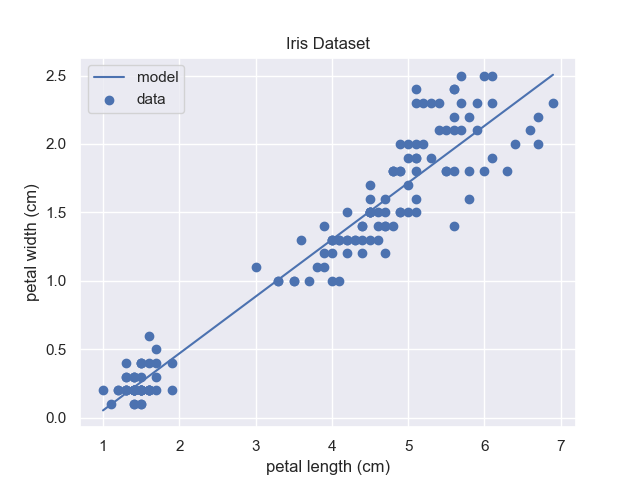
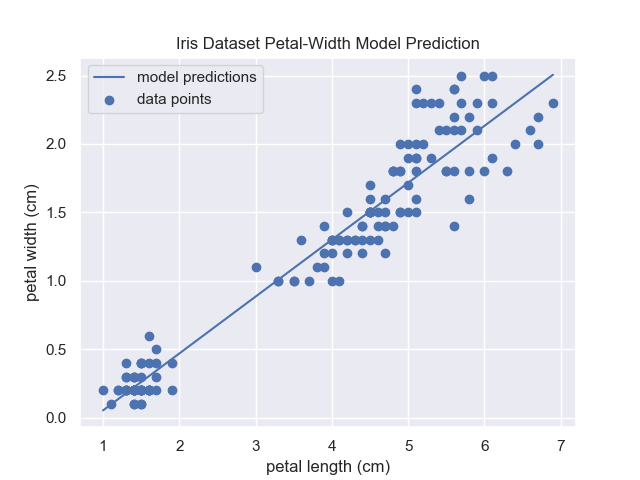
Updating readme and plot

Changed region(s): [[0.2188, 0.0625, 0.75, 0.2188]]

diff --git a/make-model.py b/make-model.py
@@ -26,11 +26,11 @@ with open("model.pkl","wb") as f:
 # Plot the data & model
 X_ = np.linspace(X.min(),X.max(),100).reshape((-1,1))
 y_ = model.predict(X_)
-plt.scatter(X,y,label="data")
-plt.plot(X_,y_,label="model")
+plt.scatter(X,y,label="data points")
+plt.plot(X_,y_,label="model predictions")
 plt.xlabel(iris["feature_names"][2])
 plt.ylabel(iris["feature_names"][3])
-plt.title("Iris Dataset Petal-Width Prediction")
+plt.title("Iris Dataset Petal-Width Model Prediction")
 plt.legend()
 plt.savefig("plots/iris_data.png")
 

diff --git a/README.md b/README.md
@@ -2,6 +2,7 @@
 
 _created by Austin Poor_
 
+![iris data](plots/iris_data.png)
 
 
 
